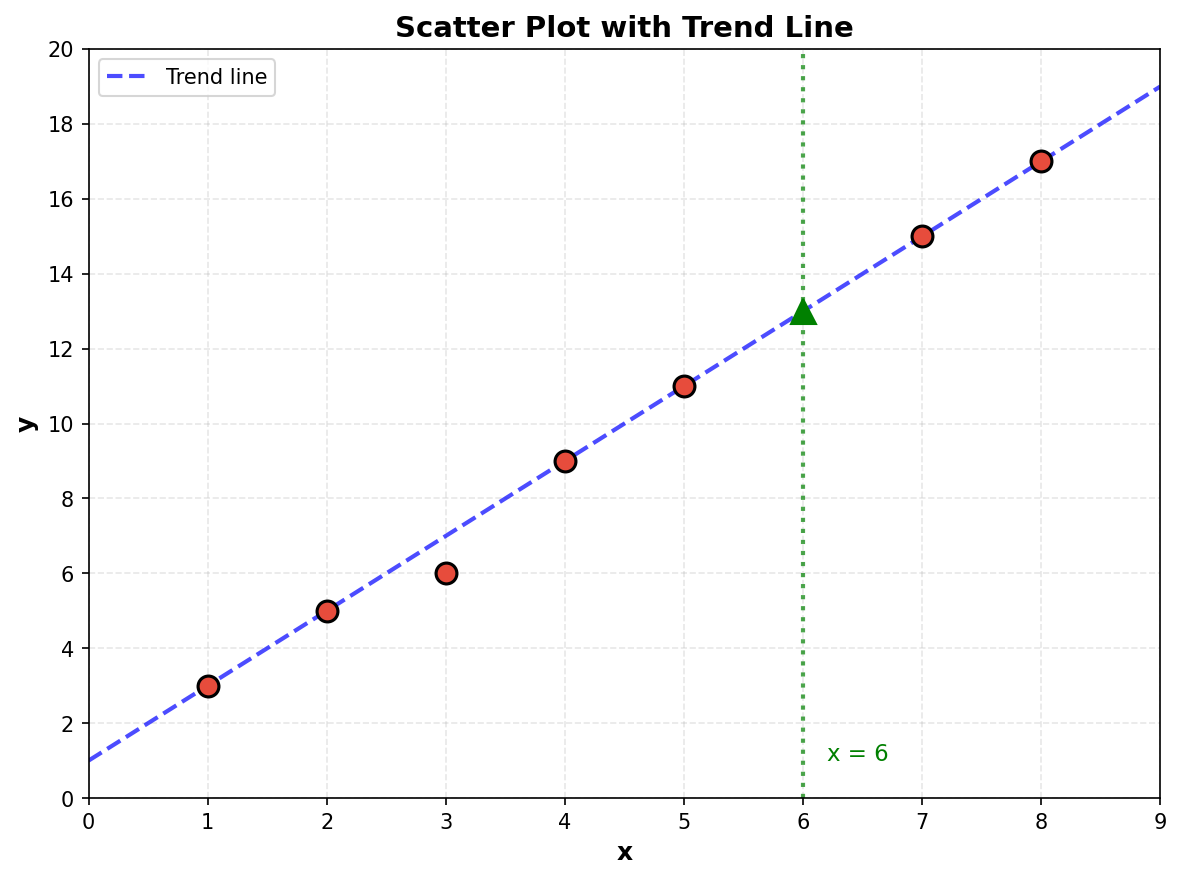
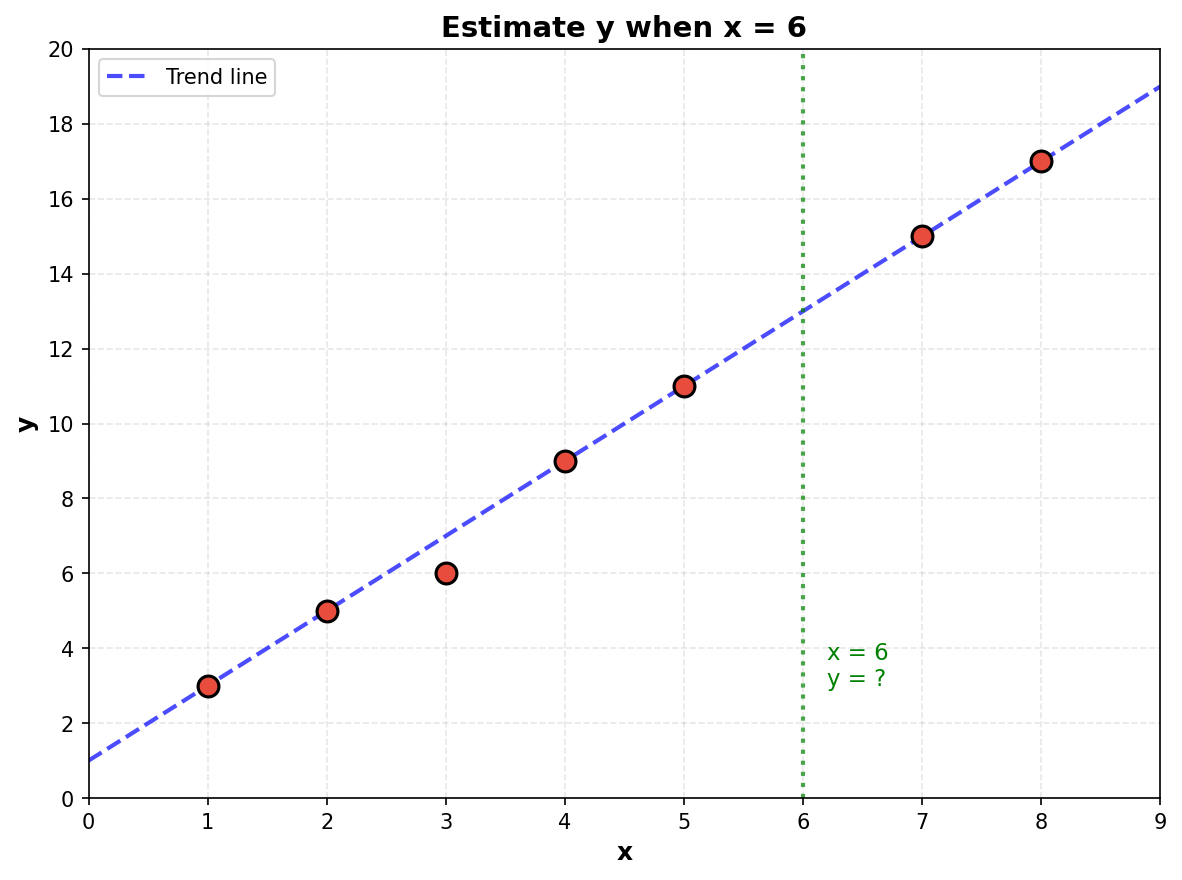
Fix: Remove answer spoilers from Exam 2 images (Q21 and Q32)

Changed region(s): [[0.335, 0.0, 0.731, 0.0614], [0.7005, 0.7364, 0.7614, 0.7977], [0.6701, 0.3375, 0.7005, 0.3682]]

diff --git a/estIImath1/generate_exam2_images.py b/estIImath1/generate_exam2_images.py
@@ -1,181 +1,83 @@
-"""
-Generate additional graph images for Practice Exam 2
-These images are designed for questions that REQUIRE visual analysis
-"""
-
+"""Generate graph images for Practice Exam 2 - NO ANSWER SPOILERS"""
 import matplotlib.pyplot as plt
 import numpy as np
 import os
-
-# Ensure images directory exists
 os.makedirs('images', exist_ok=True)
 
-# ===== IMAGE 1: Histogram for Q17 replacement =====
-# Question: "Based on the histogram, how many students scored between 70-90?"
+# Q17: Histogram - shows data, student must add values
 def create_histogram():
     fig, ax = plt.subplots(figsize=(8, 6))
-    
-    # Score ranges and frequencies
     ranges = ['50-60', '60-70', '70-80', '80-90', '90-100']
-    frequencies = [4, 7, 12, 9, 5]  # Students in each range
-    
+    frequencies = [4, 7, 12, 9, 5]
     colors = ['#3498db', '#3498db', '#e74c3c', '#e74c3c', '#3498db']
     bars = ax.bar(ranges, frequencies, color=colors, edgecolor='black', linewidth=1.2)
-    
-    # Add value labels on bars
     for bar, freq in zip(bars, frequencies):
         ax.text(bar.get_x() + bar.get_width()/2, bar.get_height() + 0.3, 
                 str(freq), ha='center', fontsize=12, fontweight='bold')
-    
     ax.set_xlabel('Score Range', fontsize=12, fontweight='bold')
     ax.set_ylabel('Number of Students', fontsize=12, fontweight='bold')
     ax.set_title('Math Test Score Distribution', fontsize=14, fontweight='bold')
     ax.set_ylim(0, 15)
     ax.grid(axis='y', alpha=0.3, linestyle='--')
-    
     plt.tight_layout()
     plt.savefig('images/ex2_q17_histogram.png', dpi=150, bbox_inches='tight')
     plt.close()
-    print("[OK] Created: ex2_q17_histogram.png")
+    print("[OK] ex2_q17_histogram.png")
 
-# ===== IMAGE 2: Piecewise function graph for Q21 replacement =====
-# Question: "Based on the graph, what is f(2) + f(-1)?"
+# Q21: Piecewise function - NO LABELS showing f(2) or f(-1) values!
 def create_piecewise_graph():
     fig, ax = plt.subplots(figsize=(8, 6))
-    
-    # Piecewise function:
-    # f(x) = x + 3 for x < 0
-    # f(x) = -x + 3 for x >= 0
-    
     x1 = np.linspace(-4, 0, 100)
     y1 = x1 + 3
-    
     x2 = np.linspace(0, 4, 100)
     y2 = -x2 + 3
-    
     ax.plot(x1, y1, 'b-', linewidth=2.5, label='f(x)')
     ax.plot(x2, y2, 'b-', linewidth=2.5)
-    
-    # Mark key points
-    ax.plot(0, 3, 'ro', markersize=10, zorder=5)  # Vertex
-    ax.plot(2, 1, 'go', markersize=8, zorder=5)   # f(2) = 1
-    ax.plot(-1, 2, 'go', markersize=8, zorder=5)  # f(-1) = 2
-    
-    # Add labels for key points
-    ax.annotate('(0, 3)', (0.2, 3.2), fontsize=10)
-    ax.annotate('(2, 1)', (2.2, 1.2), fontsize=10)
-    ax.annotate('(-1, 2)', (-0.8, 2.3), fontsize=10)
-    
-    # Axes
+    # NO point labels! Student must read from graph
     ax.axhline(0, color='black', linewidth=0.8)
     ax.axvline(0, color='black', linewidth=0.8)
     ax.grid(True, alpha=0.3, linestyle='--')
-    
     ax.set_xlim(-4, 4)
     ax.set_ylim(-2, 5)
     ax.set_xlabel('x', fontsize=12)
     ax.set_ylabel('y', fontsize=12)
     ax.set_title('Graph of f(x)', fontsize=14, fontweight='bold')
-    
-    # Set integer ticks
     ax.set_xticks(range(-4, 5))
     ax.set_yticks(range(-2, 6))
-    
     plt.tight_layout()
     plt.savefig('images/ex2_q21_piecewise.png', dpi=150, bbox_inches='tight')
     plt.close()
-    print("[OK] Created: ex2_q21_piecewise.png")
+    print("[OK] ex2_q21_piecewise.png")
 
-# ===== IMAGE 3: Scatter plot with trend for Q32 replacement =====
-# Question: "Based on the scatter plot, what is the best estimate for y when x = 6?"
+# Q32: Scatter plot - show x=6 line but NOT the y value!
 def create_scatter_plot():
     fig, ax = plt.subplots(figsize=(8, 6))
-    
-    # Data points that follow y ≈ 2x + 1 trend
     x_data = [1, 2, 3, 4, 5, 7, 8]
-    y_data = [3, 5, 6, 9, 11, 15, 17]  # Roughly y = 2x + 1
-    
+    y_data = [3, 5, 6, 9, 11, 15, 17]
     ax.scatter(x_data, y_data, s=100, c='#e74c3c', edgecolors='black', linewidth=1.5, zorder=5)
-    
-    # Draw trend line
     x_line = np.array([0, 9])
     y_line = 2 * x_line + 1
     ax.plot(x_line, y_line, 'b--', linewidth=2, alpha=0.7, label='Trend line')
-    
-    # Mark the question point
+    # Only mark x=6, NOT the y value
     ax.axvline(x=6, color='green', linestyle=':', linewidth=2, alpha=0.7)
-    ax.plot(6, 13, 'g^', markersize=12, zorder=5)  # Expected y when x=6
-    ax.annotate('x = 6', (6.2, 1), fontsize=11, color='green')
-    
+    ax.annotate('x = 6\ny = ?', (6.2, 3), fontsize=11, color='green')
     ax.set_xlim(0, 9)
     ax.set_ylim(0, 20)
     ax.set_xlabel('x', fontsize=12, fontweight='bold')
     ax.set_ylabel('y', fontsize=12, fontweight='bold')
-    ax.set_title('Scatter Plot with Trend Line', fontsize=14, fontweight='bold')
+    ax.set_title('Estimate y when x = 6', fontsize=14, fontweight='bold')
     ax.grid(True, alpha=0.3, linestyle='--')
     ax.legend(loc='upper left')
-    
-    # Integer ticks
     ax.set_xticks(range(0, 10))
     ax.set_yticks(range(0, 21, 2))
-    
     plt.tight_layout()
     plt.savefig('images/ex2_q32_scatter.png', dpi=150, bbox_inches='tight')
     plt.close()
-    print("[OK] Created: ex2_q32_scatter.png")
-
-# ===== IMAGE 4: Circle with tangent for Q18 =====
-# Question: "In the circle with center O, if AB is tangent at point P and OP = 5, what is the length of OP?"
-def create_circle_tangent():
-    fig, ax = plt.subplots(figsize=(8, 8))
-    
-    # Circle
-    theta = np.linspace(0, 2*np.pi, 100)
-    r = 5
-    x_circle = r * np.cos(theta)
-    y_circle = r * np.sin(theta)
-    ax.plot(x_circle, y_circle, 'b-', linewidth=2)
-    
-    # Center O
-    ax.plot(0, 0, 'ro', markersize=8)
-    ax.annotate('O', (0.3, 0.3), fontsize=12, fontweight='bold')
-    
-    # Tangent point P at (5, 0)
-    ax.plot(5, 0, 'go', markersize=8)
-    ax.annotate('P', (5.3, 0.3), fontsize=12, fontweight='bold')
-    
-    # Tangent line (vertical at x=5)
-    ax.axvline(x=5, color='purple', linewidth=2, linestyle='-')
-    
-    # Points A and B on tangent
-    ax.plot(5, 4, 'ko', markersize=8)
-    ax.annotate('A', (5.3, 4), fontsize=12, fontweight='bold')
-    ax.plot(5, -4, 'ko', markersize=8)
-    ax.annotate('B', (5.3, -4), fontsize=12, fontweight='bold')
-    
-    # Radius OP
-    ax.plot([0, 5], [0, 0], 'r-', linewidth=2)
-    ax.annotate('r = 5', (2.5, 0.5), fontsize=11, color='red')
-    
-    # Right angle symbol at P
-    rect_size = 0.5
-    ax.plot([5-rect_size, 5-rect_size, 5], [0, rect_size, rect_size], 'k-', linewidth=1)
-    
-    ax.set_xlim(-7, 8)
-    ax.set_ylim(-7, 7)
-    ax.set_aspect('equal')
-    ax.grid(True, alpha=0.3, linestyle='--')
-    ax.set_title('Circle with Tangent Line AB', fontsize=14, fontweight='bold')
-    
-    plt.tight_layout()
-    plt.savefig('images/ex2_q18_tangent.png', dpi=150, bbox_inches='tight')
-    plt.close()
-    print("[OK] Created: ex2_q18_tangent.png")
+    print("[OK] ex2_q32_scatter.png")
 
 if __name__ == "__main__":
-    print("Generating additional images for Exam 2...")
+    print("Generating Exam 2 images (NO SPOILERS)...")
     create_histogram()
     create_piecewise_graph()
     create_scatter_plot()
-    create_circle_tangent()
-    print("\n[OK] All images generated successfully!")
+    print("\n[OK] All Exam 2 images done!")
